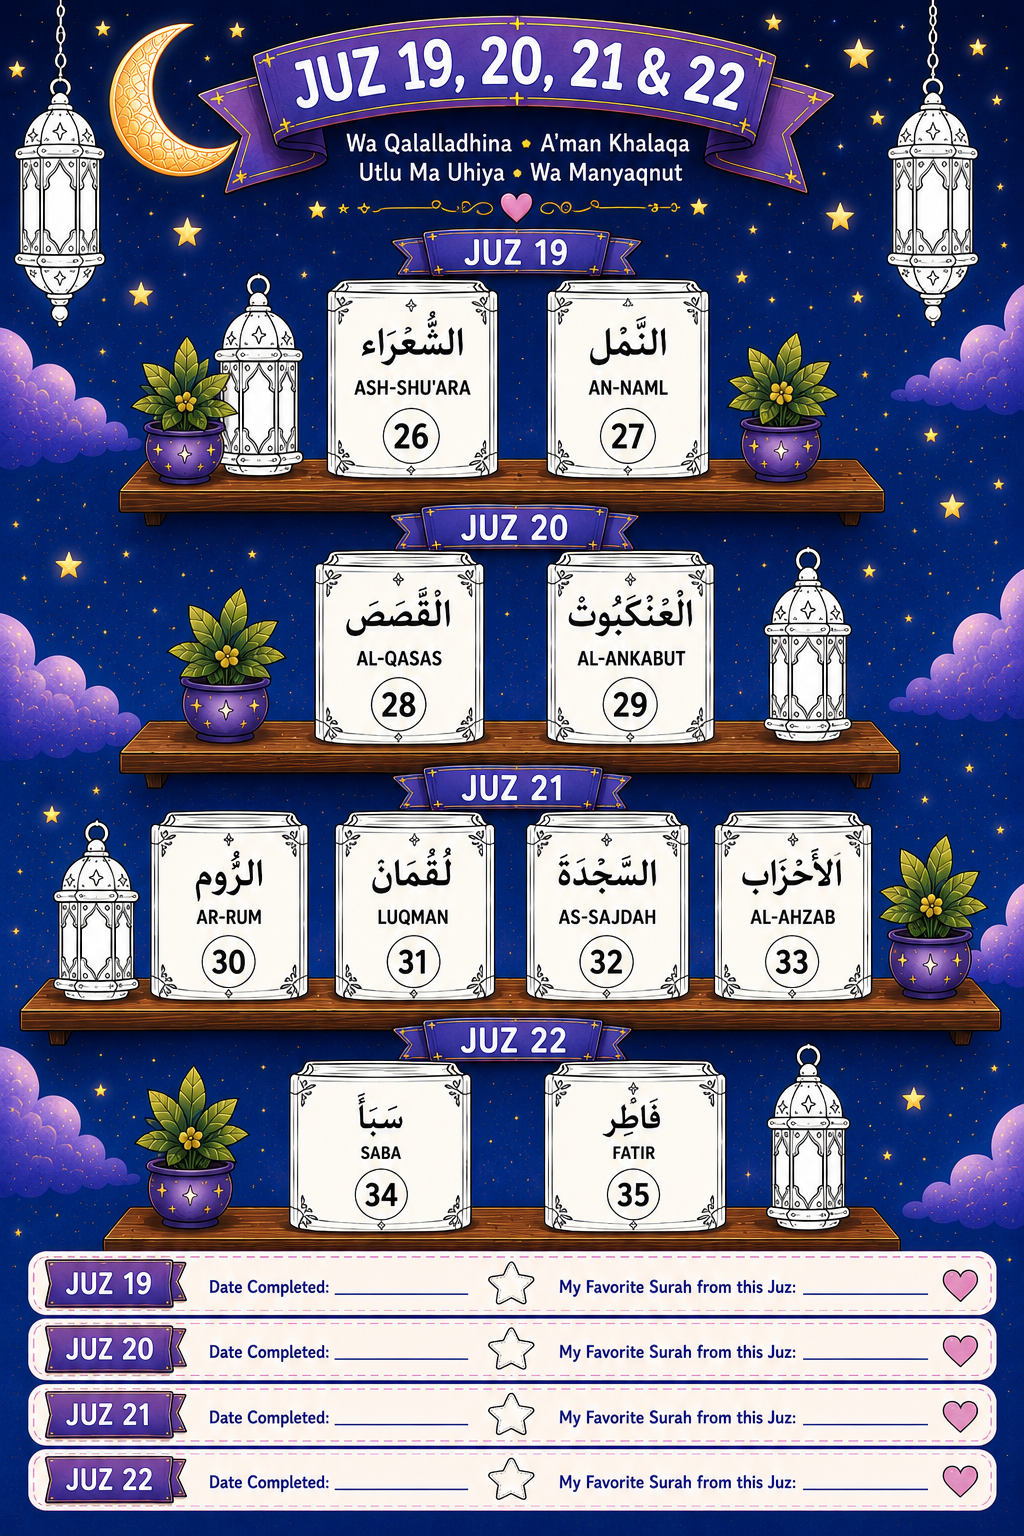
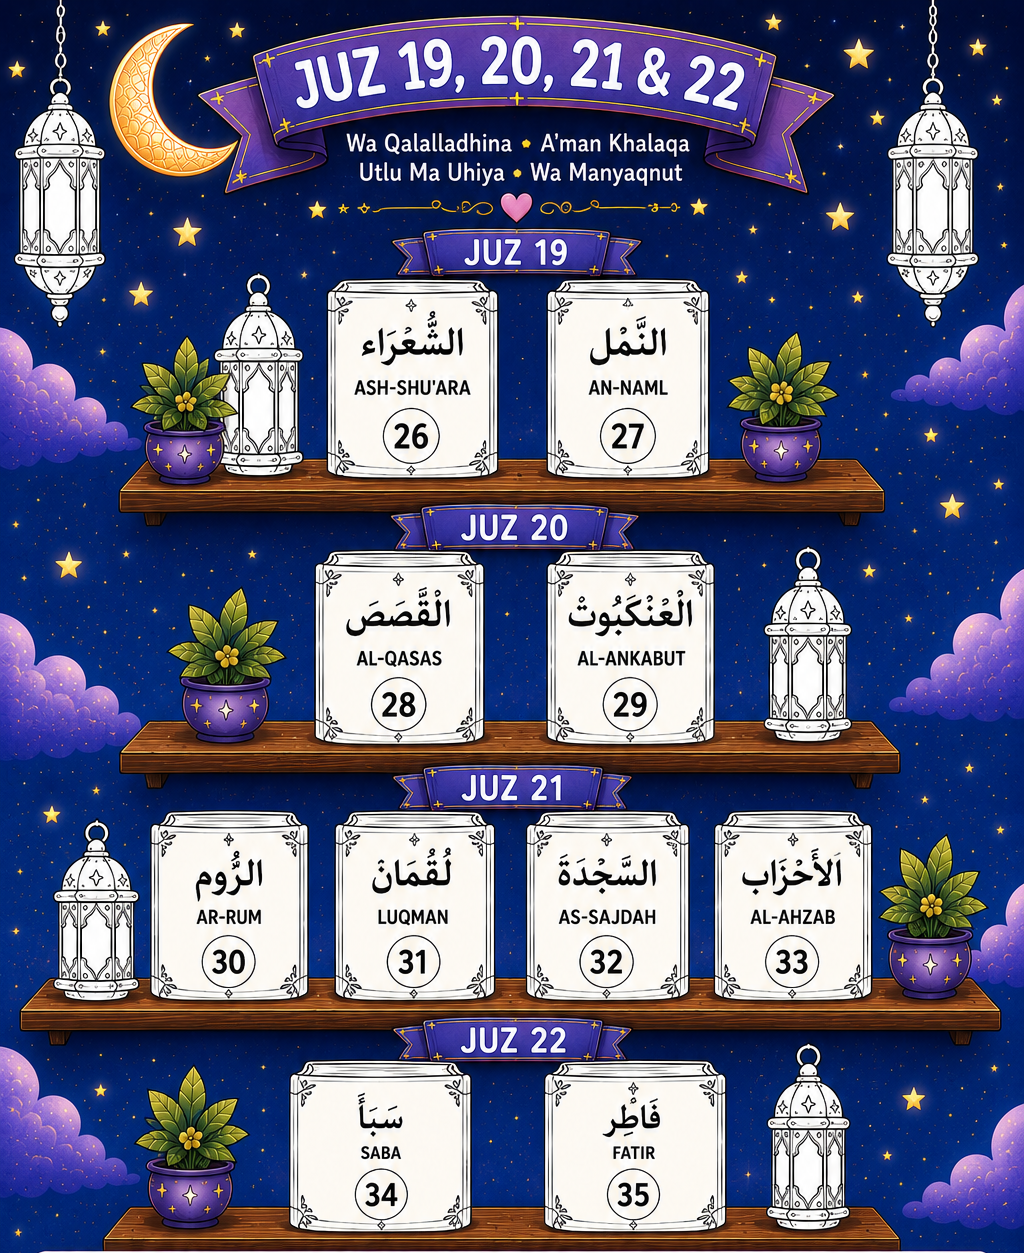
1

diff --git a/src/App.tsx b/src/App.tsx
@@ -58,6 +58,27 @@ const colorOptions = [
 ];
 const colors = colorOptions.map(option=>option.value);
 const artForJuz = (n:number) => asset(n<=6?"juz-1-6.png":n<=13?"juz-7-13.png":n<=18?"juz-14-18.png":n<=22?"juz-19-22.png":n<=25?"juz-23-25.png":n<=27?"juz-26-27.png":n<=29?"juz-28-29.png":"juz-30-five-shelves-v9.png");
+/**
+ * How much of each tracker page is shown.
+ *
+ * These pages were originally drawn with a printable *Date Completed / My
+ * Favorite Surah* strip along the bottom, which the app has always cropped away
+ * — the container is `overflow:hidden` with an aspect ratio derived from this
+ * number, and every book's tap-target position is converted through it too.
+ *
+ * **On 24 Aug 2026 the PNGs themselves were trimmed to exactly these ratios**,
+ * because ~3.3 MB of every family's download was a strip nobody could see. The
+ * printable tracker is a separate product with its own artwork and does not
+ * live in this repo.
+ *
+ * Two consequences worth knowing:
+ *  - **Do not change these numbers to 100.** They still define the container
+ *    ratio and the tap-target maths; the files simply no longer carry the part
+ *    that used to be cut off.
+ *  - **Replacing a page means re-checking its number.** A regenerated file must
+ *    either match its trimmed proportions, or be a full-height page — in which
+ *    case this value crops it exactly as it always did.
+ */
 const cropForJuz = (n:number) => n<=6?84.1:n<=13?82.1:n<=18?82.5:n<=22?81.5:n<=25?80:n<=27?78:n<=29?84.5:87.5;
 type Rect = [number,number,number,number];
 const row = (count:number,y:number,x1:number,x2:number,h:number):Rect[] => Array.from({length:count},(_,i)=>{const gap=1.1,w=(x2-x1-gap*(count-1))/count;return [x1+i*(w+gap),y,w,h]});
